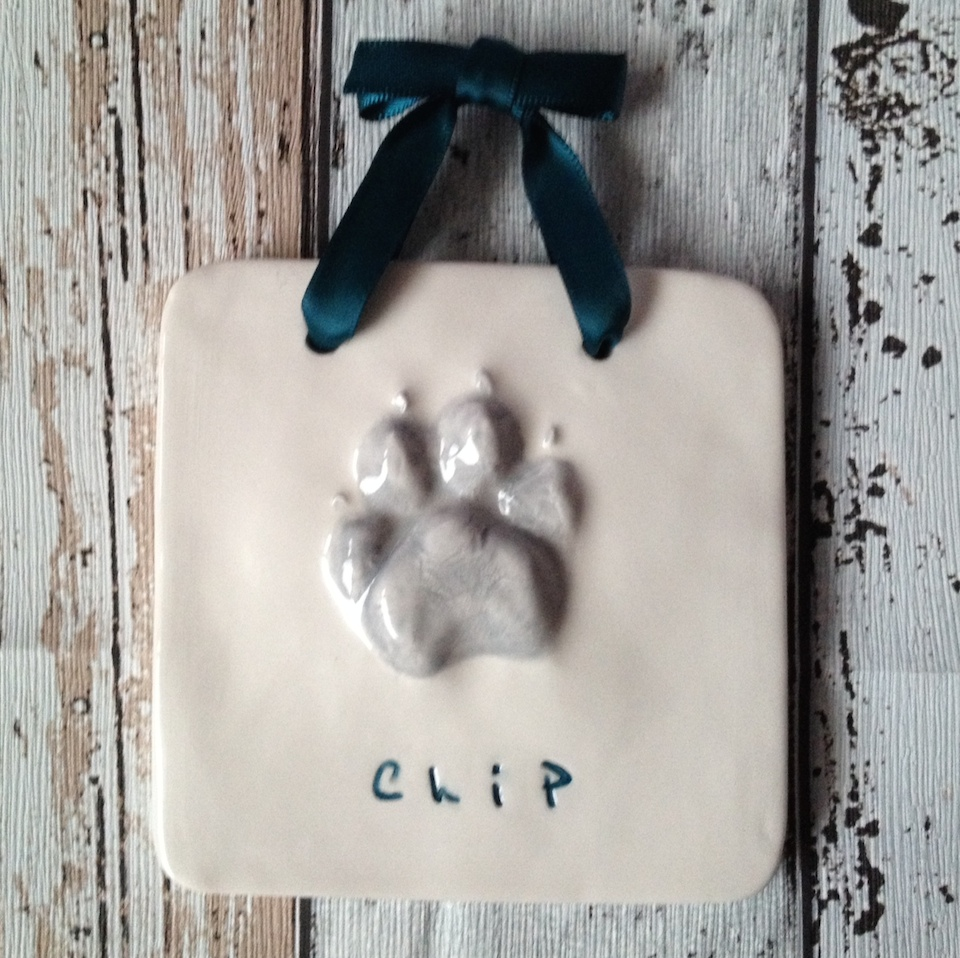
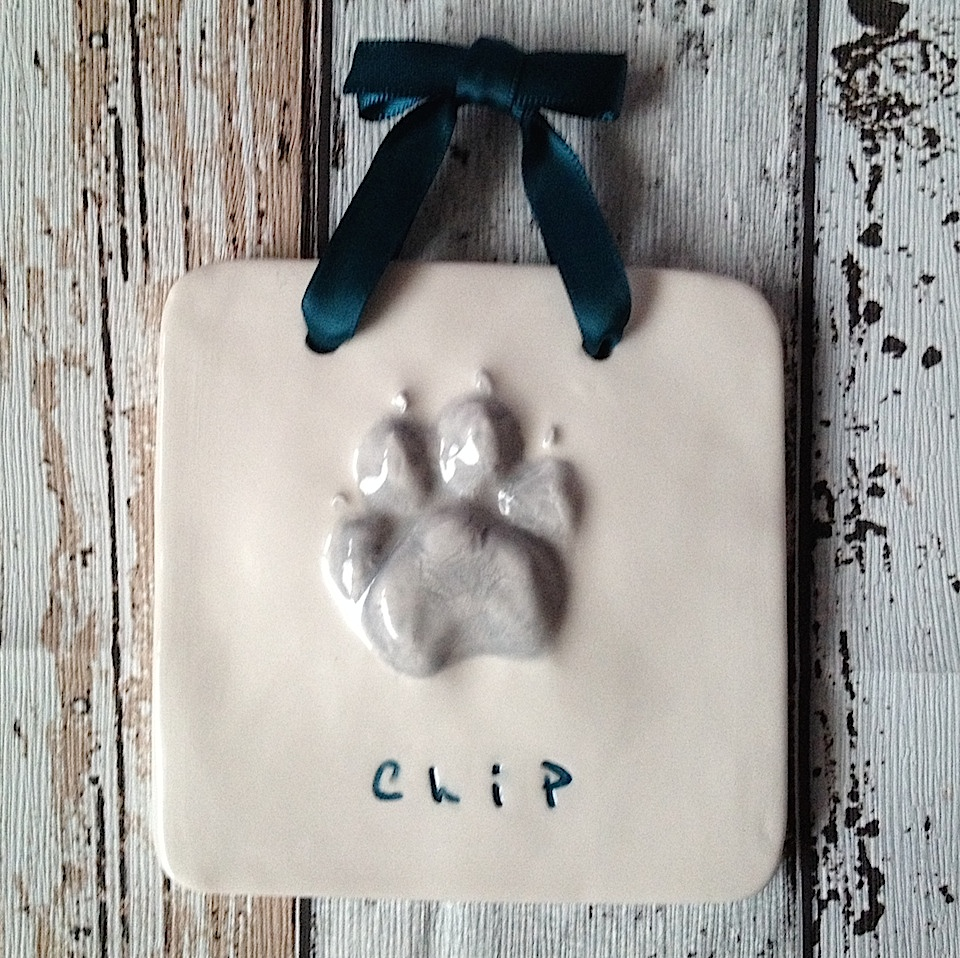
Lower quality images

diff --git a/seabreeze-ceramics/index.html b/seabreeze-ceramics/index.html
@@ -159,7 +159,7 @@
             <div class="row no-gutter">
                 <div class="col-lg-4 col-sm-6">
                     <div href="#" class="portfolio-box">
-                        <img src="img/portfolio/smallunframed.jpg" class="img-responsive" alt="">
+                        <img src="img/portfolio/smallunframed50.jpg" class="img-responsive" alt="">
                         <div class="portfolio-box-caption">
                             <div class="portfolio-box-caption-content">
                                 <div class="project-category">
@@ -183,7 +183,7 @@
                 </div>
                 <div class="col-lg-4 col-sm-6">
                     <div href="#" class="portfolio-box">
-                        <img src="img/portfolio/largeunframed.jpg" class="img-responsive" alt="">
+                        <img src="img/portfolio/largeunframed50.jpg" class="img-responsive" alt="">
                         <div class="portfolio-box-caption">
                             <div class="portfolio-box-caption-content">
                                 <div class="project-category">
@@ -207,7 +207,7 @@
                 </div>
                 <div class="col-lg-4 col-sm-6">
                     <div href="#" class="portfolio-box">
-                        <img src="img/portfolio/smallframed.jpg" class="img-responsive" alt="">
+                        <img src="img/portfolio/smallframed50.jpg" class="img-responsive" alt="">
                         <div class="portfolio-box-caption">
                             <div class="portfolio-box-caption-content">
                                 <div class="project-category">
@@ -231,7 +231,7 @@
                 </div>
                 <div class="col-lg-4 col-sm-6">
                     <div href="#" class="portfolio-box">
-                        <img src="img/portfolio/largeframed.jpg" class="img-responsive" alt="">
+                        <img src="img/portfolio/largeframed50.jpg" class="img-responsive" alt="">
                         <div class="portfolio-box-caption">
                             <div class="portfolio-box-caption-content">
                                 <div class="project-category">
@@ -256,7 +256,7 @@
             
             <div class="col-lg-4 col-sm-6">
                     <div href="#" class="portfolio-box">
-                        <img src="img/portfolio/kit.jpg" class="img-responsive" alt="">
+                        <img src="img/portfolio/kit50.jpg" class="img-responsive" alt="">
                         <div class="portfolio-box-caption">
                             <div class="portfolio-box-caption-content">
                                 <div class="project-category">
